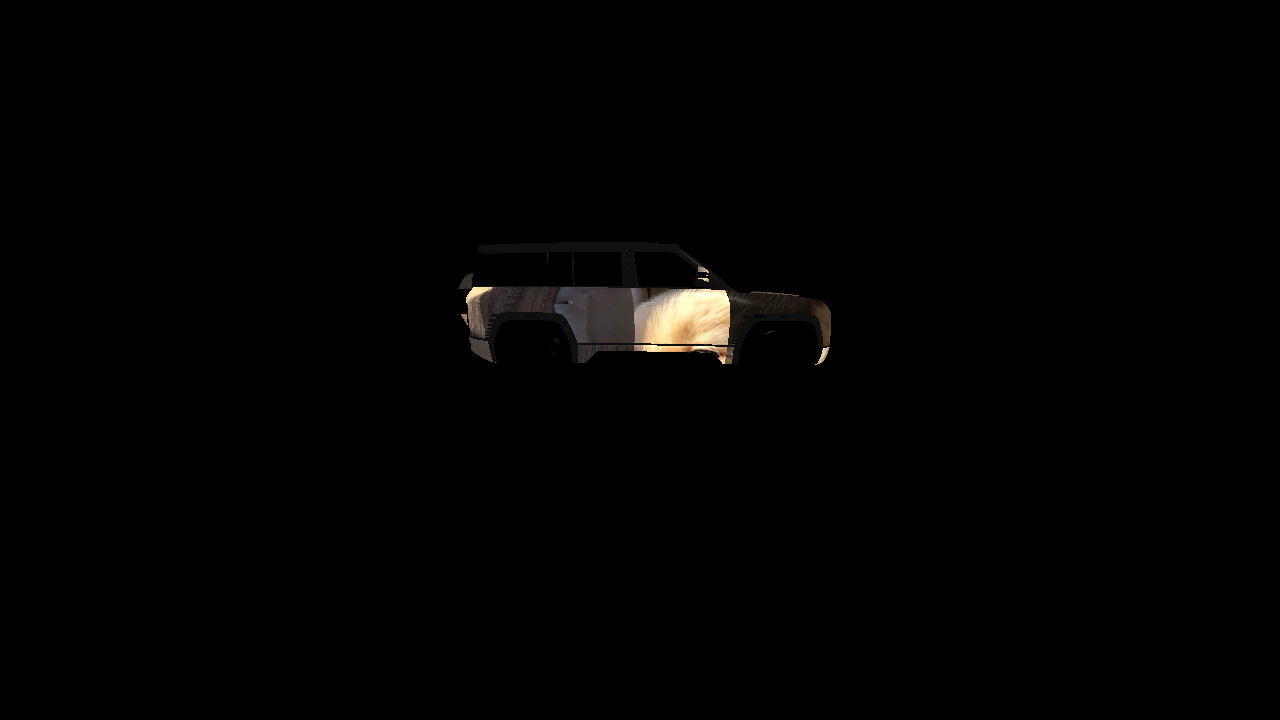
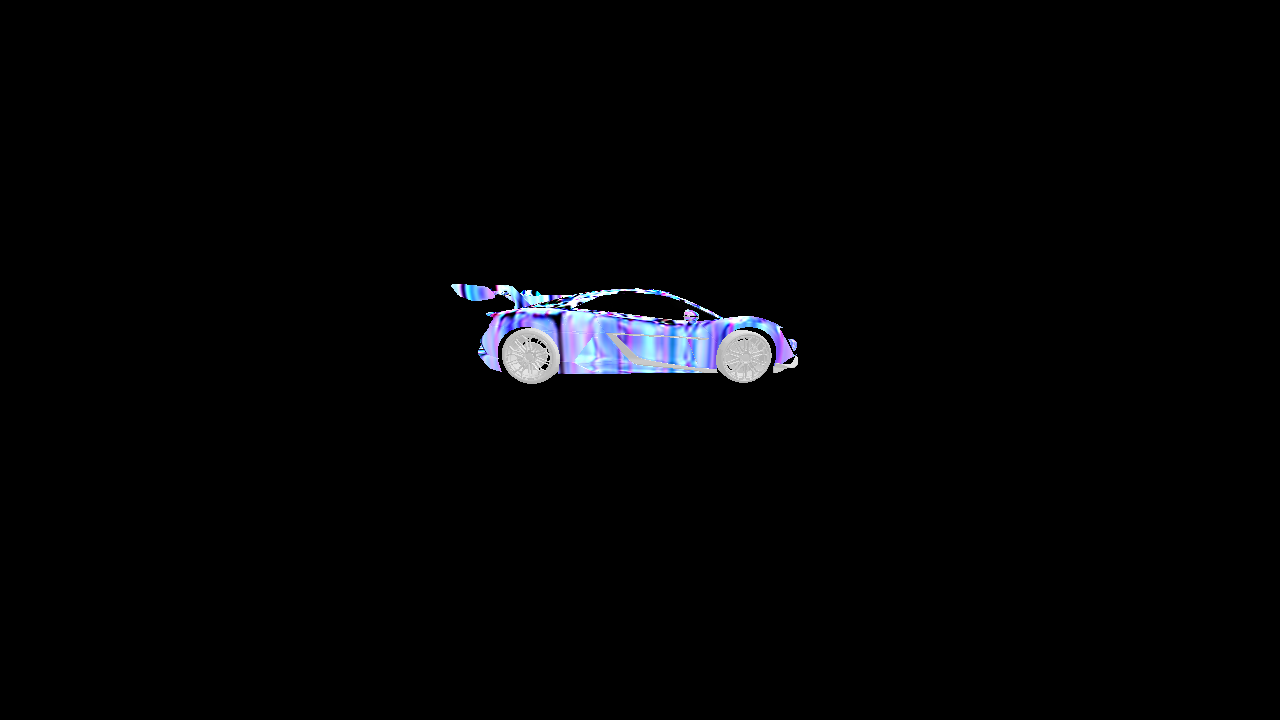
20260324 optim without loss set

Changed region(s): [[0.3438, 0.3667, 0.6562, 0.55]]

diff --git a/adv_attack/attack_class.py b/adv_attack/attack_class.py
@@ -3408,9 +3408,12 @@ class MM3DAdv_ATTACK:
         # loader
         self.optim.train_loader= train_loader
         self.optim.val_loader= val_loader
-        mesh_model_t=load_obj_model(self.exp_params["mesh_model_path"], 
+        
+        mesh_model_t,material_list=load_obj_model_return_mesh_material(self.exp_params["mesh_model_path"], 
                                 optim_device)
         self.optim.mesh_model =mesh_model_t
+        self.optim.material_list=material_list
+        self.optim.target_material=self.exp_params["target_material_dict"]
 
 
     def optim_step(self):
@@ -3449,7 +3452,7 @@ class MM3DAdv_ATTACK:
                 # 初始化object mesh
 
                 ## 直接render
-
+                
                 origin_com_tensor_rendered = load_parma_and_render_main(object_mesh=self.optim.mesh_model,
                                                                 background=backgroud_images,
                                                                 path_camera_pose=cameras_pose_path,
@@ -3461,12 +3464,19 @@ class MM3DAdv_ATTACK:
                 ## 纹理贴图渲染
 
 
-                new_mesh_rendered_adv_com=update_meshes_texture(
-                        original_meshes_list=self.optim.mesh_model,
-                        tex=adv_texture_resized,           # 形状为 [1, C, H, W] 的纹理张量
-                        target_index_list=[1,3],
-                        device=self.optim.optim_device)
+                # new_mesh_rendered_adv_com=update_meshes_texture(
+                #         original_meshes_list=self.optim.mesh_model,
+                #         tex=adv_texture_resized,           # 形状为 [1, C, H, W] 的纹理张量
+                #         target_index_list=[1,3],
+                #         device=self.optim.optim_device)
+                for i in range(len(self.optim.target_material)):
+                    target_index_dict={self.optim.target_material[i]: adv_texture_resized[i]}
 
+                new_mesh_rendered_adv_com=update_meshes_texture_dict(
+                    original_meshes_list=self.optim.mesh_model,
+                    target_index_dict=target_index_dict,           # 形状为 [1, C, H, W] 的纹理张量
+                    material_names_list=self.optim.material_list,
+                    device=self.optim.optim_device)
                 adv_com_tensor_rendered = load_parma_and_render_main(object_mesh=new_mesh_rendered_adv_com,
                                                                 background=backgroud_images,
                                                                 path_camera_pose=cameras_pose_path,

diff --git a/adv_attack/util.py b/adv_attack/util.py
@@ -595,7 +595,7 @@ class YOLOv11DetectionLoss(nn.Module):
 
                 # 4. 映射回原始预测框的索引，并检查匹配有效性
                 best_pred_idx = unmatched_pred_indices[sub_best_idx]  # 子集索引 → 原始索引
-                valid = (iou_matrix[best_pred_idx] >= self.iou_thres) 
+                valid = (iou_matrix[sub_best_idx] >= self.iou_thres) 
                 # valid = (iou_matrix[sub_best_idx] >= 0)  # 检查IoU有效性
                 if not valid:
                     # 无效匹配：施加惩罚
@@ -3664,7 +3664,7 @@ class RGBCameraPoseDataset(Dataset):
         self.pose_ext = pose_ext
 
         # 1. 定义RGB和位姿文件夹路径
-        self.rgb_dir = os.path.join(root_dir, "rgb")
+        self.rgb_dir = os.path.join(root_dir, "background")
         self.pose_dir = os.path.join(root_dir, "camera_pose")
         
         # 2. 校验文件夹是否存在
